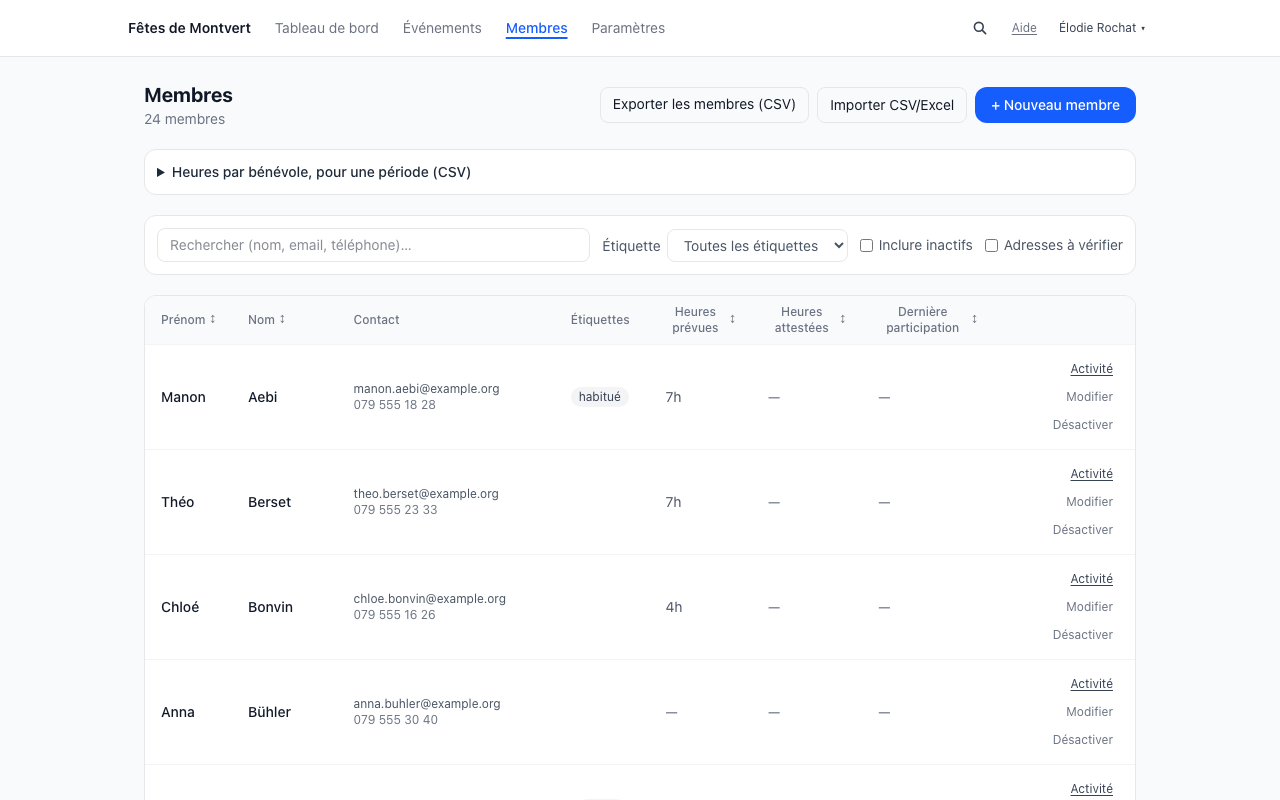
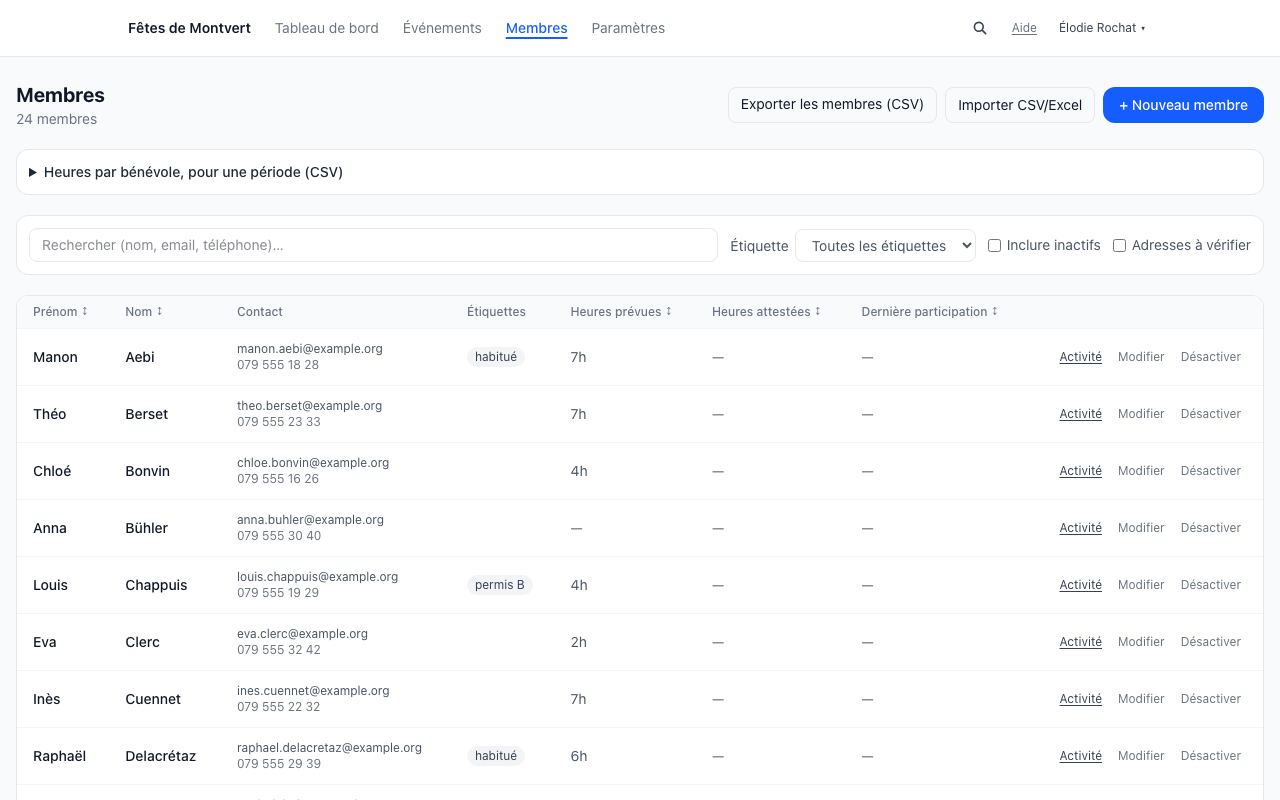
Members list: wider page, row actions on one line, no page-level sideways scroll (#1102)
The members table kept the admin column width (max-w-5xl) on any window, so its
row actions stacked (rows about 100 px tall) and were cut at the right edge when
a cell could not wrap. The admin <main> now widens to max-w-7xl for a root marked
data-admin-wide (the members list only; the top bar keeps max-w-5xl). Actions
stay on one line, long addresses wrap inside a 12rem Contact column, tags and
phone numbers stay whole. The scroll region is positioned so the sr-only parts
of the action names no longer widen the page below about 1000 px. When the table
is still wider than its region, a visible cue above it says it scrolls and
describes the region (aria-describedby).

Fixes #1102

diff --git a/src/components/admin/MembersManager.tsx b/src/components/admin/MembersManager.tsx
@@ -4,7 +4,7 @@
 // SPDX-License-Identifier: AGPL-3.0-only
 
 import Link from "next/link"
-import { useEffect, useLayoutEffect, useMemo, useRef, useState, useTransition } from "react"
+import { useEffect, useId, useLayoutEffect, useMemo, useRef, useState, useTransition } from "react"
 import { deactivateMemberRecap, deleteMemberRecap } from "@/lib/action-recap"
 import ConfirmActionModal from "@/components/admin/ConfirmActionModal"
 import { useRouter } from "next/navigation"
@@ -20,6 +20,8 @@ import { availabilityLabel, hasAvailability } from "@/lib/availability"
 import { outcomeClass } from "@/lib/status-message"
 import { ERASED_ROW, formatRecordDay, mergedRowSentence, recordDisplayName, recordSubject } from "@/lib/member-record-state"
 import MergedSentenceView from "./members/MergedSentenceView"
+import { useHidesColumns } from "./members/useHidesColumns"
+import { TABLE_SCROLL_HINT } from "@/lib/table-overflow"
 
 type Props = {
   initialMembers: Member[]
@@ -85,6 +87,11 @@ export default function MembersManager({ initialMembers, allTags, initialSearch,
     ),
     [members, search, tagFilter, showInactive, addressToVerify, showArchived, sortCol, sortDir],
   )
+
+  // #1102: a visible cue, linked to the scroll region, only while the table is wider than it.
+  const tableRegionRef = useRef<HTMLDivElement>(null)
+  const scrollHintId = useId()
+  const tableHidesColumns = useHidesColumns(tableRegionRef, [filtered])
 
   const [resultAnnouncement, setResultAnnouncement] = useState("")
   // Skips the very first run (mount): nothing changed yet, nothing to announce.
@@ -308,7 +315,9 @@ export default function MembersManager({ initialMembers, allTags, initialSearch,
   }
 
   return (
-    <div className="space-y-5">
+    // data-admin-wide (#1102): the admin <main> widens to max-w-7xl for this data-heavy list
+    // (src/app/admin/layout.tsx); the top bar keeps its width.
+    <div data-admin-wide="" className="space-y-5">
       {pendingDeactivate && (
         <ConfirmActionModal
           recap={deactivateMemberRecap(pendingDeactivate.name)}
@@ -513,9 +522,15 @@ export default function MembersManager({ initialMembers, allTags, initialSearch,
         {/* overflow-x-auto, not overflow-hidden (#557): on a narrow screen the table scrolls in its
             own region, never the page. tabIndex/role/aria-label: the scroll region itself is
             reachable and named for keyboard and screen-reader users (same pattern as the outbox
-            table, settings/notifications). min-w-[56rem], not 64rem (#927): the table fits the
-            admin column at 1280 px, its row actions wrapping instead of running past the edge. */}
-        <div role="region" aria-label="Liste des membres" tabIndex={0} className="bg-white border border-gray-200 rounded-xl overflow-x-auto focus-visible:outline focus-visible:outline-2 focus-visible:outline-offset-2 focus-visible:outline-blue-600">
+            table, settings/notifications). The page is wider for this list (data-admin-wide,
+            #1102), so the row actions stay on one line (compact rows) instead of wrapping (#927);
+            when the table is still wider than the region, the cue above says it scrolls and is
+            the region's description. `relative`: the absolutely positioned sr-only spans of the
+            action names stay inside the scroll container instead of widening the page. */}
+        {tableHidesColumns && (
+          <p id={scrollHintId} className="max-w-[65ch] text-sm text-gray-600">{TABLE_SCROLL_HINT}</p>
+        )}
+        <div ref={tableRegionRef} role="region" aria-label="Liste des membres" aria-describedby={tableHidesColumns ? scrollHintId : undefined} tabIndex={0} className="relative bg-white border border-gray-200 rounded-xl overflow-x-auto focus-visible:outline focus-visible:outline-2 focus-visible:outline-offset-2 focus-visible:outline-blue-600">
           <table aria-label="Liste des membres" className="w-full text-sm min-w-[56rem]">
             <thead className="bg-gray-50 text-xs text-gray-500">
               <tr>
@@ -556,9 +571,10 @@ export default function MembersManager({ initialMembers, allTags, initialSearch,
                     )}
                   </td>
                   {!archived && <td className="px-4 py-3 font-medium text-gray-900">{m.lastName}</td>}
-                  <td className="px-4 py-3 text-gray-600">
-                    {m.email && <div className="text-xs">{m.email}</div>}
-                    {m.phone && <div className="text-xs text-gray-500">{m.phone}</div>}
+                  <td className="px-4 py-3 text-gray-600 min-w-[12rem]">
+                    {/* A long address wraps anywhere rather than widening the table (#1102), in a column never narrower than 12rem (most addresses on one line); a phone number never breaks between its digit groups. */}
+                    {m.email && <div className="text-xs [overflow-wrap:anywhere]">{m.email}</div>}
+                    {m.phone && <div className="text-xs text-gray-500 whitespace-nowrap">{m.phone}</div>}
                     {!m.email && !m.phone && <span className="text-xs text-gray-500">—</span>}
                     {hasAvailability(m) && <div className="text-xs text-gray-700 mt-0.5"><span className="sr-only">Disponible : </span><span aria-hidden="true">🕒 </span>{availabilityLabel(m)}</div>}
                     {m.addressStatus.kind !== "ok" && (
@@ -577,7 +593,7 @@ export default function MembersManager({ initialMembers, allTags, initialSearch,
                   <td className="px-4 py-3">
                     <div className="flex flex-wrap gap-1">
                       {m.tags.map((t) => (
-                        <span key={t} className="text-xs bg-gray-100 text-gray-700 px-2 py-0.5 rounded-full">
+                        <span key={t} className="text-xs bg-gray-100 text-gray-700 px-2 py-0.5 rounded-full whitespace-nowrap">
                           {t}
                         </span>
                       ))}
@@ -602,8 +618,8 @@ export default function MembersManager({ initialMembers, allTags, initialSearch,
                     )}
                   </td>
                   <td className="px-4 py-3">
-                    {/* min-h-11 sm:min-h-6 (44 px on a phone, 24 px from sm, #557 axe target-size): the hit area meets the minimum regardless of the small label text. A wrapping flex row with a gap (#927), not nowrap inline text: the actions may take two lines when the table is narrow, each keeping its own box, never overlapping. */}
-                    <div className="flex flex-wrap justify-end gap-1">
+                    {/* min-h-11 sm:min-h-6 (44 px on a phone, 24 px from sm, #557 axe target-size): the hit area meets the minimum regardless of the small label text. One line (#1102): the wider page leaves room for them, and stacked actions made every row three lines tall; each keeps its own box and the gap, and a table still too wide scrolls in its region. */}
+                    <div className="flex flex-nowrap justify-end gap-1 whitespace-nowrap">
                       <Link
                         href={`/admin/members/${m.id}`}
                         className="inline-flex items-center justify-center min-h-11 sm:min-h-6 px-1.5 text-xs text-gray-700 hover:text-blue-700 underline underline-offset-2 rounded focus-visible:outline focus-visible:outline-2 focus-visible:outline-offset-2 focus-visible:outline-blue-600"

diff --git a/src/components/__tests__/MembersManager.react.test.tsx b/src/components/__tests__/MembersManager.react.test.tsx
@@ -248,10 +248,11 @@ describe("MembersManager — ?deleted= from the member page (#667)", () => {
   })
 })
 
-// #927: at 1280 px the row actions ran past the table's edge (min-w 64rem, nowrap cell). The
-// table now fits the admin column and the actions wrap in a flex row, each keeping its target size.
-describe("MembersManager — row actions wrap instead of overflowing", () => {
-  it("lays the actions out in a wrapping flex row, in a table of 56rem minimum", () => {
+// #927: at 1280 px the row actions ran past the table's edge (min-w 64rem). #1102: the page is
+// wider for this list, so the actions sit on one line (no more stacking), each keeping its own box
+// and target size; a table still too wide scrolls in its region.
+describe("MembersManager — row actions on one line, never past the table's edge", () => {
+  it("lays the actions out in one flex row, in a table of 56rem minimum", () => {
     render(
       <MembersManager
         initialMembers={[member({ id: "a", addressStatus: { kind: "to_verify", since: "2026-03-01T00:00:00.000Z" } })]}
@@ -264,8 +265,7 @@ describe("MembersManager — row actions wrap instead of overflowing", () => {
     expect(table).not.toHaveClass("min-w-[64rem]")
     const edit = screen.getByRole("button", { name: "Modifier Alice Martin" })
     const row = edit.parentElement!
-    expect(row).toHaveClass("flex", "flex-wrap", "gap-1")
-    expect(row.closest("td")).not.toHaveClass("whitespace-nowrap")
+    expect(row).toHaveClass("flex", "flex-nowrap", "gap-1")
     const actions = [
       screen.getByRole("link", { name: "Activité de Alice Martin" }),
       edit,
@@ -324,5 +324,69 @@ describe("MembersManager — absorbed and erased records", () => {
   it("a deep-linked edit never opens for an archived record", () => {
     render(<MembersManager initialMembers={members} allTags={[]} initialEditId="erased" defaultHoursPeriod={{ from: "2026-01-01", to: "2026-12-31" }} />)
     expect(screen.queryByRole("dialog")).toBeNull()
+  })
+})
+
+describe("MembersManager — table layout (#1102)", () => {
+  const HINT = /Le tableau est plus large que l'écran/
+  const renderList = () => render(
+    <MembersManager
+      initialMembers={[member({ id: "a", firstName: "Gwendoline", lastName: "Montmollin", email: "gwendoline.de.montmollin@long-address.example.org", phone: "079 123 45 67", tags: ["permis B"] })]}
+      allTags={["permis B"]}
+      defaultHoursPeriod={{ from: "2026-01-01", to: "2026-12-31" }}
+    />,
+  )
+  const stubWidths = (scrollWidth: number, clientWidth: number) => {
+    const sw = vi.spyOn(HTMLElement.prototype, "scrollWidth", "get").mockReturnValue(scrollWidth)
+    const cw = vi.spyOn(HTMLElement.prototype, "clientWidth", "get").mockReturnValue(clientWidth)
+    return () => { sw.mockRestore(); cw.mockRestore() }
+  }
+
+  it("marks its root so the admin page widens for it", () => {
+    const { container } = renderList()
+    expect(container.firstElementChild).toHaveAttribute("data-admin-wide")
+  })
+
+  it("keeps the row actions on one line, with their names unchanged", () => {
+    renderList()
+    const edit = screen.getByRole("button", { name: "Modifier Gwendoline Montmollin" })
+    const actions = edit.parentElement!
+    expect(actions).toHaveClass("flex-nowrap", "whitespace-nowrap")
+    expect(actions).not.toHaveClass("flex-wrap")
+    expect(within(actions).getByRole("link", { name: "Activité de Gwendoline Montmollin" })).toBeInTheDocument()
+    expect(within(actions).getByRole("button", { name: "Désactiver Gwendoline Montmollin" })).toBeInTheDocument()
+  })
+
+  it("contains the sr-only parts of the action names in the scroll region (no page-level sideways scroll)", () => {
+    renderList()
+    expect(screen.getByRole("region", { name: "Liste des membres" })).toHaveClass("relative", "overflow-x-auto")
+  })
+
+  it("wraps a long address and keeps tags and phone numbers whole", () => {
+    renderList()
+    expect(screen.getByText("gwendoline.de.montmollin@long-address.example.org")).toHaveClass("[overflow-wrap:anywhere]")
+    expect(screen.getByText("079 123 45 67")).toHaveClass("whitespace-nowrap")
+    expect(screen.getByText("permis B", { selector: "span" })).toHaveClass("whitespace-nowrap")
+  })
+
+  it("shows no scroll cue when the table fits", () => {
+    const restore = stubWidths(1246, 1246)
+    try {
+      renderList()
+      expect(screen.queryByText(HINT)).toBeNull()
+      expect(screen.getByRole("region", { name: "Liste des membres" })).not.toHaveAttribute("aria-describedby")
+    } finally { restore() }
+  })
+
+  it("shows the cue, as the region's description, when the table is wider than its region", () => {
+    const restore = stubWidths(1076, 341)
+    try {
+      renderList()
+      const hint = screen.getByText(HINT)
+      const region = screen.getByRole("region", { name: "Liste des membres" })
+      expect(region).toHaveAttribute("aria-describedby", hint.id)
+      // Before the region in reading order.
+      expect(hint.compareDocumentPosition(region) & Node.DOCUMENT_POSITION_FOLLOWING).toBeTruthy()
+    } finally { restore() }
   })
 })

diff --git a/e2e/members-table-layout.spec.ts b/e2e/members-table-layout.spec.ts
@@ -1,0 +1,82 @@
+import { test, expect, type Page } from "@playwright/test"
+import { waitForHydration } from "./helpers/hydration"
+
+/**
+ * Members list layout (#1102): on a wide window the table fits its (wider) page with the row
+ * actions on one line, nothing cut at the right edge; on a phone the table scrolls inside its own
+ * region, says so, and the page itself never scrolls sideways.
+ */
+
+const ORG_ADMIN_EMAIL = process.env.ORG_ADMIN_EMAIL ?? "org-admin@localhost"
+const ORG_ADMIN_PASSWORD = process.env.ORG_ADMIN_PASSWORD ?? "e2e-org-admin-password"
+const HINT = "Le tableau est plus large que l'écran : faites-le défiler horizontalement pour voir toutes les colonnes (au clavier, sélectionnez-le puis utilisez les flèches gauche et droite)."
+
+async function login(page: Page) {
+  await page.goto("/admin/login")
+  await page.getByLabel("Email").fill(ORG_ADMIN_EMAIL)
+  await page.getByLabel("Mot de passe").fill(ORG_ADMIN_PASSWORD)
+  await page.getByRole("button", { name: "Se connecter" }).click()
+  await expect(page).toHaveURL(/\/admin\/events/)
+}
+
+async function openListWithLongMember(page: Page) {
+  const suffix = Date.now()
+  const lastName = `de Montmollin-Vuilleumier ${suffix}`
+  const res = await page.request.post("/api/admin/members", {
+    data: { firstName: "Gwendoline-Éléonore", lastName, email: `gwendoline.eleonore.de.montmollin.vuilleumier.${suffix}@long-address.example.org`, phone: "079 123 45 67" },
+  })
+  expect(res.ok(), `${res.status()} ${await res.text()}`).toBeTruthy()
+  await page.goto(`/admin/members?q=${suffix}`)
+  const row = page.getByRole("row", { name: new RegExp(`Gwendoline-Éléonore.*${suffix}`) })
+  await expect(row).toBeVisible()
+  await waitForHydration(row.getByRole("button", { name: /^Modifier/ }))
+  return row
+}
+
+const pageScrollsSideways = (page: Page) => page.evaluate(() => document.documentElement.scrollWidth > window.innerWidth)
+
+for (const width of [1830, 1280]) {
+  test(`members table fits at ${width}px, row actions on one line`, async ({ page }) => {
+    test.setTimeout(90_000)
+    await page.setViewportSize({ width, height: 900 })
+    await login(page)
+    const row = await openListWithLongMember(page)
+
+    const region = page.getByRole("region", { name: "Liste des membres" })
+    expect(await region.evaluate((el) => el.scrollWidth - el.clientWidth)).toBeLessThanOrEqual(1)
+    await expect(page.getByText(HINT)).toHaveCount(0)
+    expect(await pageScrollsSideways(page)).toBe(false)
+
+    // The three actions sit side by side, all inside the visible region.
+    const actions = [
+      row.getByRole("link", { name: /^Activité de Gwendoline-Éléonore/ }),
+      row.getByRole("button", { name: /^Modifier Gwendoline-Éléonore/ }),
+      row.getByRole("button", { name: /^Désactiver Gwendoline-Éléonore/ }),
+    ]
+    const regionBox = (await region.boundingBox())!
+    const boxes = await Promise.all(actions.map(async (a) => (await a.boundingBox())!))
+    for (const box of boxes) {
+      expect(Math.abs(box.y - boxes[0].y)).toBeLessThan(2)
+      expect(box.x + box.width).toBeLessThanOrEqual(regionBox.x + regionBox.width)
+    }
+    // One line of actions, not three stacked (the row's height then follows its content).
+    const actionsBox = (await actions[1].locator("xpath=..").boundingBox())!
+    expect(actionsBox.height).toBeLessThan(boxes[1].height * 1.5)
+  })
+}
+
+for (const width of [375, 320]) {
+  test(`members table scrolls in its own region at ${width}px, with a visible cue`, async ({ page }) => {
+    test.setTimeout(90_000)
+    await page.setViewportSize({ width, height: 800 })
+    await login(page)
+    await openListWithLongMember(page)
+
+    const region = page.getByRole("region", { name: "Liste des membres" })
+    expect(await region.evaluate((el) => el.scrollWidth - el.clientWidth)).toBeGreaterThan(1)
+    const hint = page.getByText(HINT)
+    await expect(hint).toBeVisible()
+    await expect(region).toHaveAccessibleDescription(HINT)
+    expect(await pageScrollsSideways(page)).toBe(false)
+  })
+}

diff --git a/src/components/admin/members/useHidesColumns.ts b/src/components/admin/members/useHidesColumns.ts
@@ -1,0 +1,32 @@
+// SPDX-FileCopyrightText: 2026 Philippe Vollenweider
+// SPDX-License-Identifier: AGPL-3.0-only
+
+import { useLayoutEffect, useState, type RefObject } from "react"
+import { hidesColumns } from "@/lib/table-overflow"
+
+/**
+ * Whether the table in a horizontally scrollable region is wider than the region (#1102), kept
+ * up to date when the region is resized (window, zoom) and when the table itself changes width
+ * (rows filtered, sorted, added or edited: `deps`). False on the server and before the first
+ * measure, so the cue it drives is never in the server HTML (no hydration mismatch).
+ */
+export function useHidesColumns(regionRef: RefObject<HTMLElement | null>, deps: readonly unknown[]): boolean {
+  const [hides, setHides] = useState(false)
+  useLayoutEffect(() => {
+    const region = regionRef.current
+    if (!region) {
+      setHides(false)
+      return
+    }
+    const measure = () => setHides(hidesColumns(region.scrollWidth, region.clientWidth))
+    measure()
+    if (typeof ResizeObserver === "undefined") return
+    const observer = new ResizeObserver(measure)
+    observer.observe(region)
+    const table = region.querySelector("table")
+    if (table) observer.observe(table)
+    return () => observer.disconnect()
+    // eslint-disable-next-line react-hooks/exhaustive-deps
+  }, deps)
+  return hides
+}

diff --git a/src/lib/table-overflow.ts b/src/lib/table-overflow.ts
@@ -1,0 +1,16 @@
+// SPDX-FileCopyrightText: 2026 Philippe Vollenweider
+// SPDX-License-Identifier: AGPL-3.0-only
+
+/**
+ * Whether a horizontally scrollable table region actually hides columns (#1102): its content is
+ * wider than its visible box. A one-pixel tolerance absorbs sub-pixel rounding (a fractional
+ * column width can report scrollWidth one pixel above clientWidth with nothing hidden). A region
+ * not laid out yet (clientWidth 0: hidden, or measured before layout) never counts as overflowing.
+ */
+export function hidesColumns(scrollWidth: number, clientWidth: number): boolean {
+  if (!(clientWidth > 0) || !Number.isFinite(scrollWidth)) return false
+  return scrollWidth - clientWidth > 1
+}
+
+/** The cue shown above a members table that scrolls sideways (#1102). */
+export const TABLE_SCROLL_HINT = "Le tableau est plus large que l'écran : faites-le défiler horizontalement pour voir toutes les colonnes (au clavier, sélectionnez-le puis utilisez les flèches gauche et droite)."

diff --git a/src/lib/__tests__/table-overflow.test.ts b/src/lib/__tests__/table-overflow.test.ts
@@ -1,0 +1,26 @@
+import { describe, it, expect } from "vitest"
+import { hidesColumns } from "@/lib/table-overflow"
+
+// #1102: the members table says it scrolls sideways only when columns are really hidden.
+describe("hidesColumns", () => {
+  it("is false when the table fits its region", () => {
+    expect(hidesColumns(990, 990)).toBe(false)
+    expect(hidesColumns(800, 990)).toBe(false)
+  })
+
+  it("is true when the table is wider than its region (phone, tablet)", () => {
+    expect(hidesColumns(975, 341)).toBe(true)
+    expect(hidesColumns(975, 734)).toBe(true)
+  })
+
+  it("ignores a one-pixel sub-pixel rounding difference", () => {
+    expect(hidesColumns(991, 990)).toBe(false)
+    expect(hidesColumns(992, 990)).toBe(true)
+  })
+
+  it("is false for a region not laid out yet or a bad measure", () => {
+    expect(hidesColumns(975, 0)).toBe(false)
+    expect(hidesColumns(Number.NaN, 300)).toBe(false)
+    expect(hidesColumns(975, Number.NaN)).toBe(false)
+  })
+})

diff --git a/src/app/admin/layout.tsx b/src/app/admin/layout.tsx
@@ -46,7 +46,10 @@ export default async function AdminLayout({ children }: { children: React.ReactN
           </p>
         </section>
       )}
-      <main id={MAIN_CONTENT_ID} tabIndex={-1} className="max-w-5xl mx-auto px-4 py-6 focus:outline-none print:max-w-none print:p-0">{children}</main>
+      {/* A data-heavy list (the members table, #1102) marks its root with data-admin-wide: <main>
+          widens to max-w-7xl for it. The top bar and the banner keep max-w-5xl, a stable
+          navigation on every page. Never capped on paper. */}
+      <main id={MAIN_CONTENT_ID} tabIndex={-1} className="max-w-5xl has-[[data-admin-wide]]:max-w-7xl mx-auto px-4 py-6 focus:outline-none print:max-w-none print:has-[[data-admin-wide]]:max-w-none print:p-0">{children}</main>
     </div>
   )
 }

diff --git a/DESIGN.md b/DESIGN.md
@@ -252,7 +252,7 @@ Structure accessible (choix retenu) : un seul `<footer>` (`contentinfo`), une se
 ### Conteneur du site
 Une seule largeur pour toutes les pages publiques de benevol.app (accueil, fonctionnalités, page éditoriale `/logiciel-planning-benevoles`, documentation, vidéos, nouveautés, accessibilité, pages légales, page introuvable) : `SITE_CONTAINER_CLASS` (`src/components/public/site-container.ts`), `mx-auto w-full max-w-6xl px-6`, c'est-à-dire 72rem au plus (1104 px de contenu), centré, une gouttière de 24 px à toutes les largeurs (rien ne touche le bord à 320 px). C'est le cadre de `/fonctionnalites`, retenu pour son air. L'en-tête, le contenu et le pied de page d'une page l'utilisent tous les trois : le logo, le titre et la première colonne du pied de page commencent sur le même bord, la navigation et la dernière colonne finissent sur le même bord. Une bande pleine largeur (fond teinté, filet, bandeau « Sur cette page », sections de l'accueil) porte ce conteneur à l'intérieur, jamais une autre largeur.
 
-Le texte garde sa mesure de lecture, jamais étiré à la largeur du conteneur : 65ch (environ 80 caractères) pour la documentation (`DOC_PROSE_CLASS`), pour `/fonctionnalites` (`FEATURES_PROSE_CLASS`) et par paragraphe sur les nouveautés, l'accessibilité et les pages légales (`CONTENT_PROSE_CLASS`, article de 65ch), 70ch pour les textes d'une vidéo, `max-w-3xl` pour la foire aux questions de l'accueil. Sur une page à une seule colonne de lecture (index et guides de la documentation, nouveautés, accessibilité, pages légales), cette colonne est centrée dans le conteneur (`SITE_READING_COLUMN_CLASS`) : sur grand écran, la marge est égale des deux côtés, sans bande vide à droite ; l'en-tête et le pied de page gardent la largeur du conteneur. Les pages dont la composition remplit le conteneur (accueil, `/fonctionnalites`, `/logiciel-planning-benevoles`, vidéos, page introuvable) gardent leur texte sur son bord gauche. Sur une fiche de la documentation, le menu latéral (15rem, à partir de `lg`) et le texte se partagent le même conteneur, le texte au début de sa colonne. Les pages d'une organisation et de ses bénévoles (page d'un événement, page personnelle, responsable de secteur) gardent leurs propres largeurs. Un tableau plus large que l'écran défile dans sa propre zone focalisable (`role="region"`, nommée, `tabIndex={0}`), pas la page.
+Le texte garde sa mesure de lecture, jamais étiré à la largeur du conteneur : 65ch (environ 80 caractères) pour la documentation (`DOC_PROSE_CLASS`), pour `/fonctionnalites` (`FEATURES_PROSE_CLASS`) et par paragraphe sur les nouveautés, l'accessibilité et les pages légales (`CONTENT_PROSE_CLASS`, article de 65ch), 70ch pour les textes d'une vidéo, `max-w-3xl` pour la foire aux questions de l'accueil. Sur une page à une seule colonne de lecture (index et guides de la documentation, nouveautés, accessibilité, pages légales), cette colonne est centrée dans le conteneur (`SITE_READING_COLUMN_CLASS`) : sur grand écran, la marge est égale des deux côtés, sans bande vide à droite ; l'en-tête et le pied de page gardent la largeur du conteneur. Les pages dont la composition remplit le conteneur (accueil, `/fonctionnalites`, `/logiciel-planning-benevoles`, vidéos, page introuvable) gardent leur texte sur son bord gauche. Sur une fiche de la documentation, le menu latéral (15rem, à partir de `lg`) et le texte se partagent le même conteneur, le texte au début de sa colonne. Les pages d'une organisation et de ses bénévoles (page d'un événement, page personnelle, responsable de secteur) gardent leurs propres largeurs. Un tableau plus large que l'écran défile dans sa propre zone focalisable (`role="region"`, nommée, `tabIndex={0}`), pas la page. Cette zone est positionnée (`relative`), pour que les morceaux `sr-only` des noms d'actions restent dedans au lieu d'élargir la page. Quand le tableau dépasse vraiment, une phrase visible au-dessus le dit (« faites-le défiler horizontalement… », avec les flèches au clavier) et sert de description à la zone (`aria-describedby`), seulement tant qu'il dépasse (liste des membres, `useHidesColumns`). Dans l'administration, `<main>` a la largeur `max-w-5xl` ; une liste chargée de colonnes (la liste des membres) marque sa racine `data-admin-wide` et `<main>` passe à `max-w-7xl` pour elle, la barre de navigation gardant `max-w-5xl` sur toutes les pages. Ses actions de ligne restent sur une ligne.
 
 ### Page de décision (`/fonctionnalites`)
 `src/components/public/FeaturesPage.tsx`, dans `ContentShell` (`layout="doc"`), la page dessine son propre `<main>` ; ses sections et son bandeau « Sur cette page » sont dans le conteneur du site. Ouverture en deux colonnes à partir de `lg` : petit libellé « Fonctionnalités » (un seul sur la page, en `text-blue-700`, ni majuscules ni interlettrage), `<h1>` `text-4xl sm:text-5xl font-extrabold`, ouverture en `text-lg sm:text-xl`, bouton principal en pilule (`rounded-full bg-blue-700`, texte blanc ; `bg-blue-300` texte `gray-950` en sombre) et lien secondaire souligné ; à droite l'affiche du produit et le lecteur sur place. Puis un bandeau « Sur cette page » (`<nav>` nommée par son `<h2>`, liens soulignés), et les sections séparées d'un filet, texte et affiche en alternance (6/6 colonnes à partir de `lg`, empilés au-dessous : texte d'abord). Corps 16 px, interligne 1.75, lignes plafonnées à 65ch (`FEATURES_PROSE_CLASS`). Les étapes reprennent le motif de l'accueil (gros chiffre décoratif `aria-hidden`, « Étape n : » pour les lecteurs d'écran). L'encadré « Bénévole ? » est une citation dessinée en boîte teintée à bordure de 1 px sur tout le tour, sans guillemets ni italique, jamais un filet latéral. Affiches en `<img>` avec largeur et hauteur réelles (pas de saut de mise en page), chargées en différé sauf la première. Les pages éditoriales (`/logiciel-planning-benevoles`, les pages « Pour qui ? », `/pour-qui` et `/tarifs`, rendues par `EditorialPage`) reprennent ce composant avec leur propre petit libellé (« Pour les associations », « Pour qui ? », « Tarifs ») et une section de questions ; une capture de `public/doc-img` seule sur sa ligne y sert d'affiche, comme celle d'une vidéo : chaque question un `<h3>` `text-xl font-semibold`, sa réponse à côté à partir de `lg` (5/7 colonnes), dessous en dessous, un filet entre les questions, toutes ouvertes (jamais derrière un `<details>`, puisqu'elles sont aussi les données `FAQPage`).

diff --git a/docs/accessibilite.md b/docs/accessibilite.md
@@ -101,6 +101,8 @@ Champs obligatoires et retouches de l'administration (#1003, lot 0 de la critiqu
 
 Page Créneaux (#987) : supprimer un créneau au toucher. WebKit ne donne pas le focus à un bouton touché : il tombait sur `<main tabIndex={-1}>`, que la fenêtre d'un créneau de la frise prenait pour un départ du focus, et elle se refermait avant le clic. Le focus qui retombe sur un ancêtre hors de l'ordre de tabulation ne la ferme plus (`src/lib/focus-leave.ts`), Échap rend le focus à la barre, et l'ouvreur d'une fenêtre de confirmation est le bouton touché quand le focus est retombé sur une zone focalisable qui le contient (`src/lib/modal-opener.ts`). Vue « Liste » : tableau dans une zone défilante nommée « Liste des créneaux », actions empilées sous `sm`, cibles de 24 px au moins. Couvert par des tests unitaires (`focus-leave.test.ts`, `modal-opener.test.ts`) et par `e2e/mobile/shift-delete.spec.ts` (moteur WebKit, iPhone simulé, 320 et 390 px) : confirmation, Annuler qui rend le focus, suppression conservée après rechargement, aucune requête PATCH avant le DELETE.
 
+Liste des membres (#1102) : la page est plus large (`max-w-7xl`) pour ce tableau, les actions de ligne restent sur une ligne, avec leurs noms complets (« Modifier Léa Morand »), leurs cibles et leur ordre de tabulation inchangés. La zone défilante « Liste des membres » est positionnée (`relative`) : les morceaux `sr-only` des noms d'actions faisaient défiler toute la page de côté sous environ 1000 px (1.4.10). Quand le tableau dépasse, une phrase visible au-dessus dit qu'il défile horizontalement, et comment au clavier ; elle décrit la zone (`aria-describedby`) tant qu'il dépasse, et disparaît sinon. Couvert par `MembersManager.react.test.tsx` et `e2e/members-table-layout.spec.ts` (1830, 1280, 375 et 320 px : rien de coupé, pas de défilement de la page, phrase et description seulement quand le tableau dépasse).
+
 Pages d'un événement (#605) : réordonner avec Monter et Descendre, sur le modèle des postes (#604). Couvert par des tests unitaires (`src/lib/__tests__/page-order.test.ts`, `EventPagesManager.react.test.tsx`) et par `e2e/event-pages-keyboard.spec.ts` sous Chromium : liste « Ordre des pages » ; le focus reste sur le bouton pressé ; une seule annonce par appui (« Page « Accès » déplacée en position 2 sur 3. », « … en dernière position. ») ; aux extrémités, le bouton reste focalisable (`aria-disabled`) et dit « La page « Accès » est déjà en dernière position. » sans rien envoyer ; l'ordre est retrouvé après rechargement ; un échec d'enregistrement rétablit l'ordre enregistré, le dit dans une alerte et garde le focus sur le bouton ; axe sans violation sérieuse. Adresse de la page en `text-gray-600`. Restent à vérifier à la main, et à dater ici : clavier seul (Monter et Descendre plusieurs fois, jusqu'aux extrémités, focus visible) ; avec VoiceOver et Safari, chaque déplacement entendu une fois ; boutons inactifs distincts en couleurs forcées (thèmes « Night sky » et « Desert » d'Edge).
 
 Vidéos de la bibliothèque (`/videos`, #644) et lecteur ouvert sur place dans une fiche de documentation (`/doc/<fiche>`, `src/components/videos/DocVideoInline.tsx`) : pas de description audio séparée (1.2.3, 1.2.5), description non vérifiée vidéo par vidéo ; la transcription reprend la narration. Échantillon relu (`videos/manifests/event-create-blank.json`, `shift-night-dst.json`, `volunteer-register-mobile.json`, `organizer-create-publish.json`, `admin-navigation.json`) : la narration explique continûment ce qui est fait et pourquoi (champs renseignés, postes et créneaux choisis, boutons activés, résultat obtenu), mais rien ne garantit qu'elle couvre une information purement visuelle (couleur, état affiché à l'écran sans être nommé, position d'un élément, confirmation visuelle seule) à chaque instant où une telle information apparaît — aucun contrôle outillé ni visionnage systématique vidéo par vidéo ne le vérifie aujourd'hui (seuls `videos/tools/validate.ts` et `npm run video:validate` comparent les durées audio et visuelle, pas le contenu). La bibliothèque est publique et référencée depuis le 7 octobre 2026, et les fiches publiques de la documentation montrent aussi ces vidéos : la limite figure dans les « Limites connues » d'`ACCESSIBILITE.md` (6 octobre 2026). Lecteur des fiches : bouton de divulgation (`aria-expanded`, `aria-controls`), focus gardé sur le bouton à l'ouverture et à la fermeture, et rendu au bouton quand il remplace le lien rendu par le serveur (lien focalisé avant l'hydratation) ; testé par `src/components/__tests__/DocVideoInline.react.test.tsx` et `e2e/doc-video-links.spec.ts` (axe lecteur ouvert, clair et sombre).

diff --git a/CHANGELOG.md b/CHANGELOG.md
@@ -18,6 +18,7 @@ Format basé sur [Keep a Changelog](https://keepachangelog.com/fr/1.0.0/).
 
 ### Corrigé
 
+- **Liste des membres sur grand écran** (#1102) : la page s'élargit pour le tableau des membres, les actions d'une ligne (« Activité », « Modifier », « Désactiver ») restent côte à côte au lieu de s'empiler, et la dernière colonne n'est plus coupée au bord droit. Sur un petit écran, seul le tableau défile de côté, plus la page entière, et une phrase au-dessus le signale.
 - **Nom des barres, des créneaux et des filtres pour la commande vocale** : axe-core 4.14 vérifie que le nom d'un contrôle contient son texte visible (WCAG 2.5.3). Les barres de la frise de la page Créneaux disent leur poste puis leur texte visible (« Bar, 10h–12h, Soir, 3/5 inscrits, 2 libres, modifier »), les heures et les places en mots venant après ; les créneaux de la liste « Créneau » des inscriptions sont nommés par leur ligne visible, puis les inscrits en mots ; les cartes de filtre des invitations par leur texte (« 3 Sans réponse ») ; l'heure et le nombre d'inscrits d'une barre de la page publique restent deux mots distincts.
 
 ## [2.5.0] — 2026-10-22
